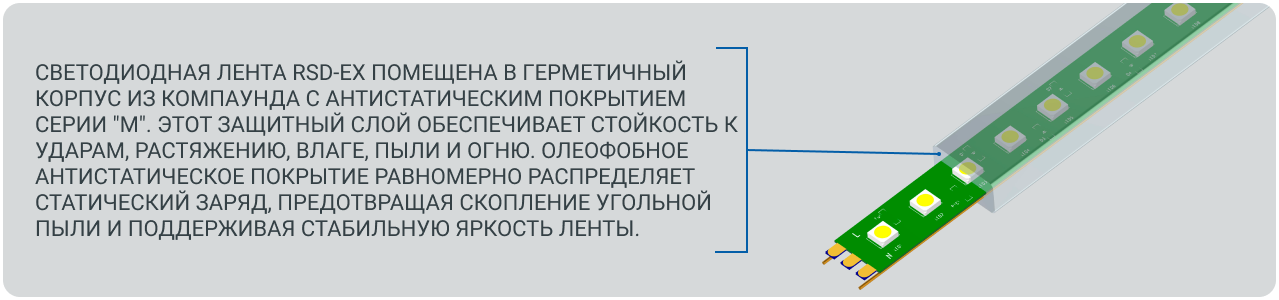
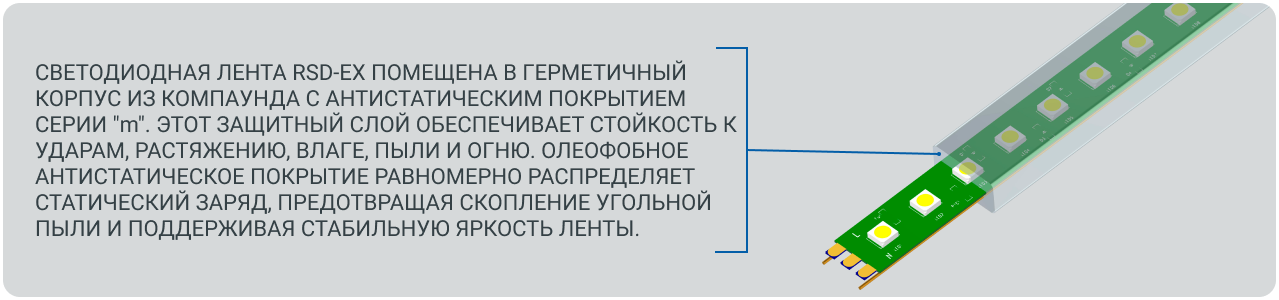
fix: добавить правки заказчика

Changed region(s): [[0.0915, 0.39, 0.5794, 0.45]]

diff --git a/app/(pages)/projects/page.tsx b/app/(pages)/projects/page.tsx
@@ -1,6 +1,7 @@
 import { Metadata } from "next";
-import Link from "next/link";
 import styles from "./page.module.css";
+import Projects from "./components/Projects/Projects";
+import Letters from "./components/Letters/Letters";
 
 export const metadata: Metadata = {
   title: "Наши проекты – светодиодная лента RSD-Ex на промышленных объектах",
@@ -14,22 +15,8 @@ export const metadata: Metadata = {
 export default function Home() {
   return (
     <main className={styles.page}>
-      <article className={styles.container}>
-        <h1 className={styles.title}>Наш сайт в процессе обновления</h1>
-        <p className={styles.text}>
-          Мы работаем над улучшением нашего сайта. Скоро он станет ещё лучше!
-          Спасибо за ваше терпение.
-        </p>
-        <nav className={styles.nav}>
-          <Link
-            href="/"
-            className={styles.link}
-            aria-label="Перейти на главную страницу"
-          >
-            На главную
-          </Link>
-        </nav>
-      </article>
+      <Projects />
+      <Letters />
     </main>
   );
 }

diff --git a/app/page.tsx b/app/page.tsx
@@ -8,8 +8,6 @@ import BestChoice from "./components/BestChoice/BestChoice";
 import Certificates from "./components/Certificates/Certificates";
 import Video from "./components/Video/Video";
 import Application from "./components/Application/Application";
-import Projects from "./components/Projects/Projects";
-import Letters from "./components/Letters/Letters";
 
 export const metadata: Metadata = {
   title: "РИКОМ – рудничная взрывозащищённая светодиодная лента RSD-Ex",
@@ -31,8 +29,6 @@ export default function Home() {
       <Certificates />
       <Video />
       <Application />
-      <Projects />
-      <Letters />
     </main>
   );
 }

diff --git a/app/components/TechnicalSpecifications/TechnicalSpecificationsData.ts b/app/components/TechnicalSpecifications/TechnicalSpecificationsData.ts
@@ -21,7 +21,7 @@ export const technicalSpecificationsData = [
   },
   {
     title: "Цветовая температура:",
-    list: ["4500K - 5500K"],
+    list: ["4500K - 10000K"],
     line: true,
   },
   {
